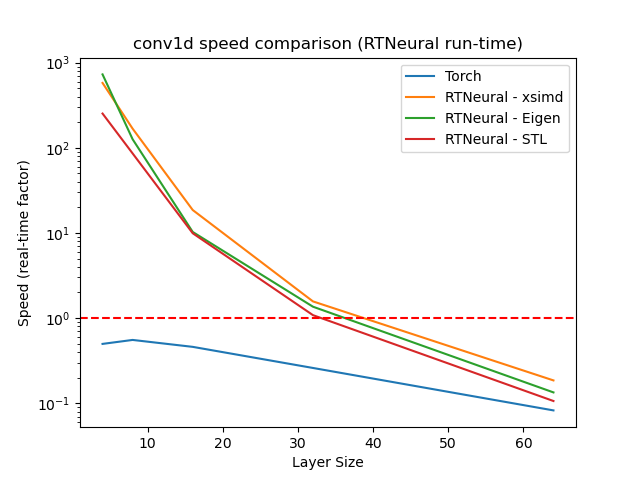
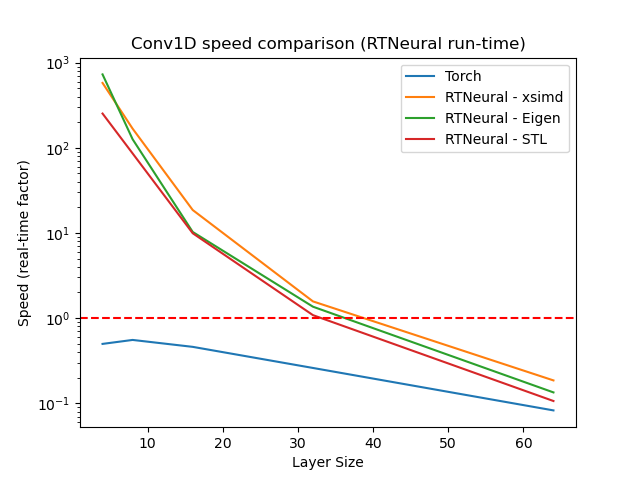
Update docs

Changed region(s): [[0.1875, 0.0625, 0.8125, 0.125]]

diff --git a/results/analyze_results.py b/results/analyze_results.py
@@ -13,6 +13,16 @@ base_results = {
     "sigmoid": [0, 0, 0, 0, 0]
 }
 
+layer_names = {
+    "dense": "Dense",
+    "conv1d": "Conv1D",
+    "lstm": "LSTM",
+    "gru": "GRU",
+    "tanh": "Tanh",
+    "relu": "ReLU",
+    "sigmoid": "Sigmoid"
+}
+
 def load_file(file):
     torch = copy.deepcopy(base_results)
     rt_st = copy.deepcopy(base_results)
@@ -60,8 +70,9 @@ for k in base_results.keys():
     if k == "sizes":
         continue
 
-    make_plot(f'{k} speed comparison (RTNeural compile-time)', f'plots/{k}_static.png',
+    name = layer_names[k]
+    make_plot(f'{name} speed comparison (RTNeural compile-time)', f'plots/{k}_static.png',
         [torch_results[k], rt_xsimd_st[k], rt_eigen_st[k], rt_stl_st[k]])
     
-    make_plot(f'{k} speed comparison (RTNeural run-time)', f'plots/{k}_dynamic.png',
+    make_plot(f'{name} speed comparison (RTNeural run-time)', f'plots/{k}_dynamic.png',
         [torch_results[k], rt_xsimd_dyn[k], rt_eigen_dyn[k], rt_stl_dyn[k]])

diff --git a/README.md b/README.md
@@ -1,1 +1,46 @@
-Intel(R) Core(TM) i7-3930K CPU
+# RTNeural Comparisons
+
+This repository contains an executable for comparing the performance
+of C++ neural network inferencing engines. Currently, there are three
+inferencing engines being compared:
+
+- [RTNeural](https://github.com/jatinchowdhury18/RTNeural) (compile-time API)
+- RTNeural (run-time API)
+- [libtorch](https://pytorch.org/cppdocs/)
+
+## Results
+All benchmarks results were obtained on a Macbook with an Intel(R) Core(TM) i7-9750H CPU @ 2.60GHz.
+
+### Dense:
+
+![](./plots/dense_static.png)
+![](./plots/dense_dynamic.png)
+
+### Conv1D:
+
+![](./plots/conv1d_static.png)
+![](./plots/conv1d_dynamic.png)
+
+### GRU:
+
+![](./plots/gru_static.png)
+![](./plots/gru_dynamic.png)
+
+### LSTM:
+
+![](./plots/lstm_static.png)
+![](./plots/lstm_dynamic.png)
+
+### Activations:
+
+Tanh:
+![](./plots/tanh_static.png)
+![](./plots/tanh_dynamic.png)
+
+ReLU:
+![](./plots/relu_static.png)
+![](./plots/relu_dynamic.png)
+
+Sigmoid:
+![](./plots/sigmoid_static.png)
+![](./plots/sigmoid_dynamic.png)
